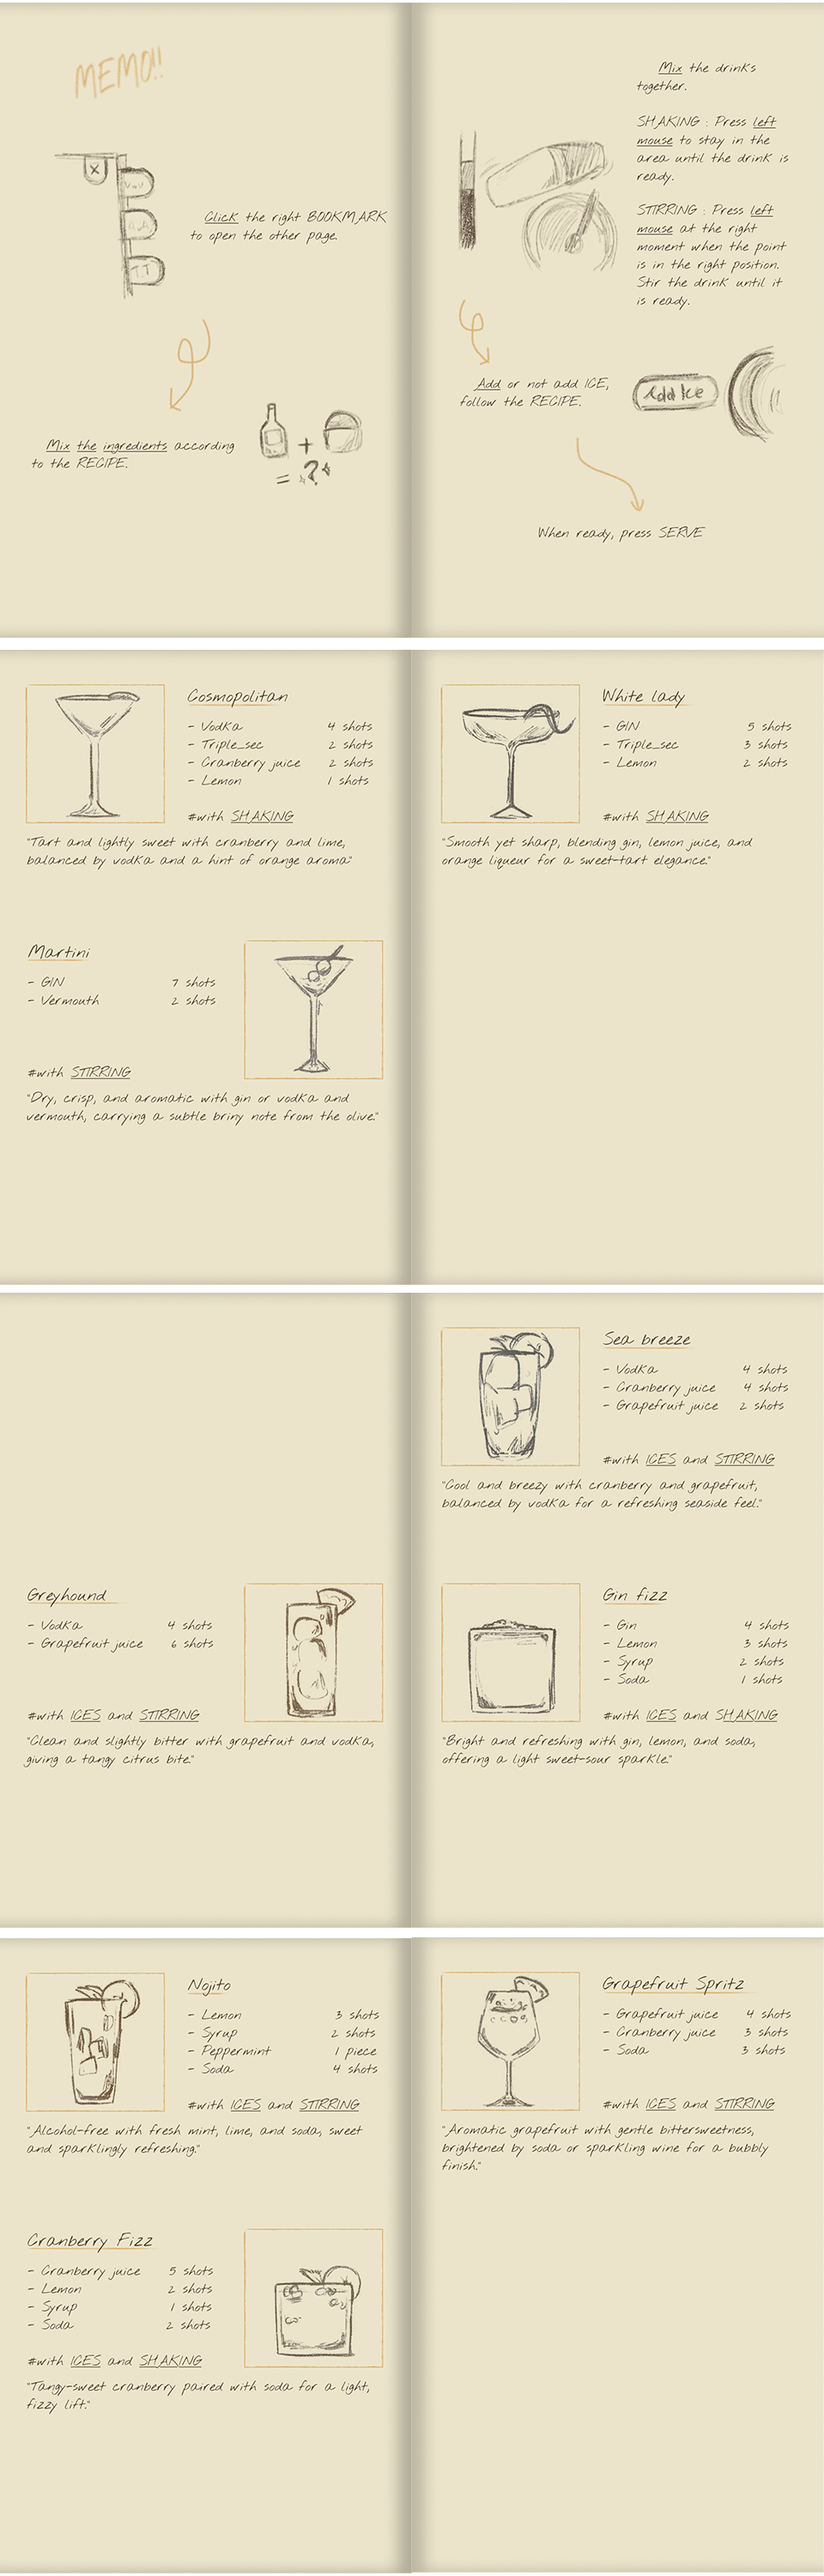
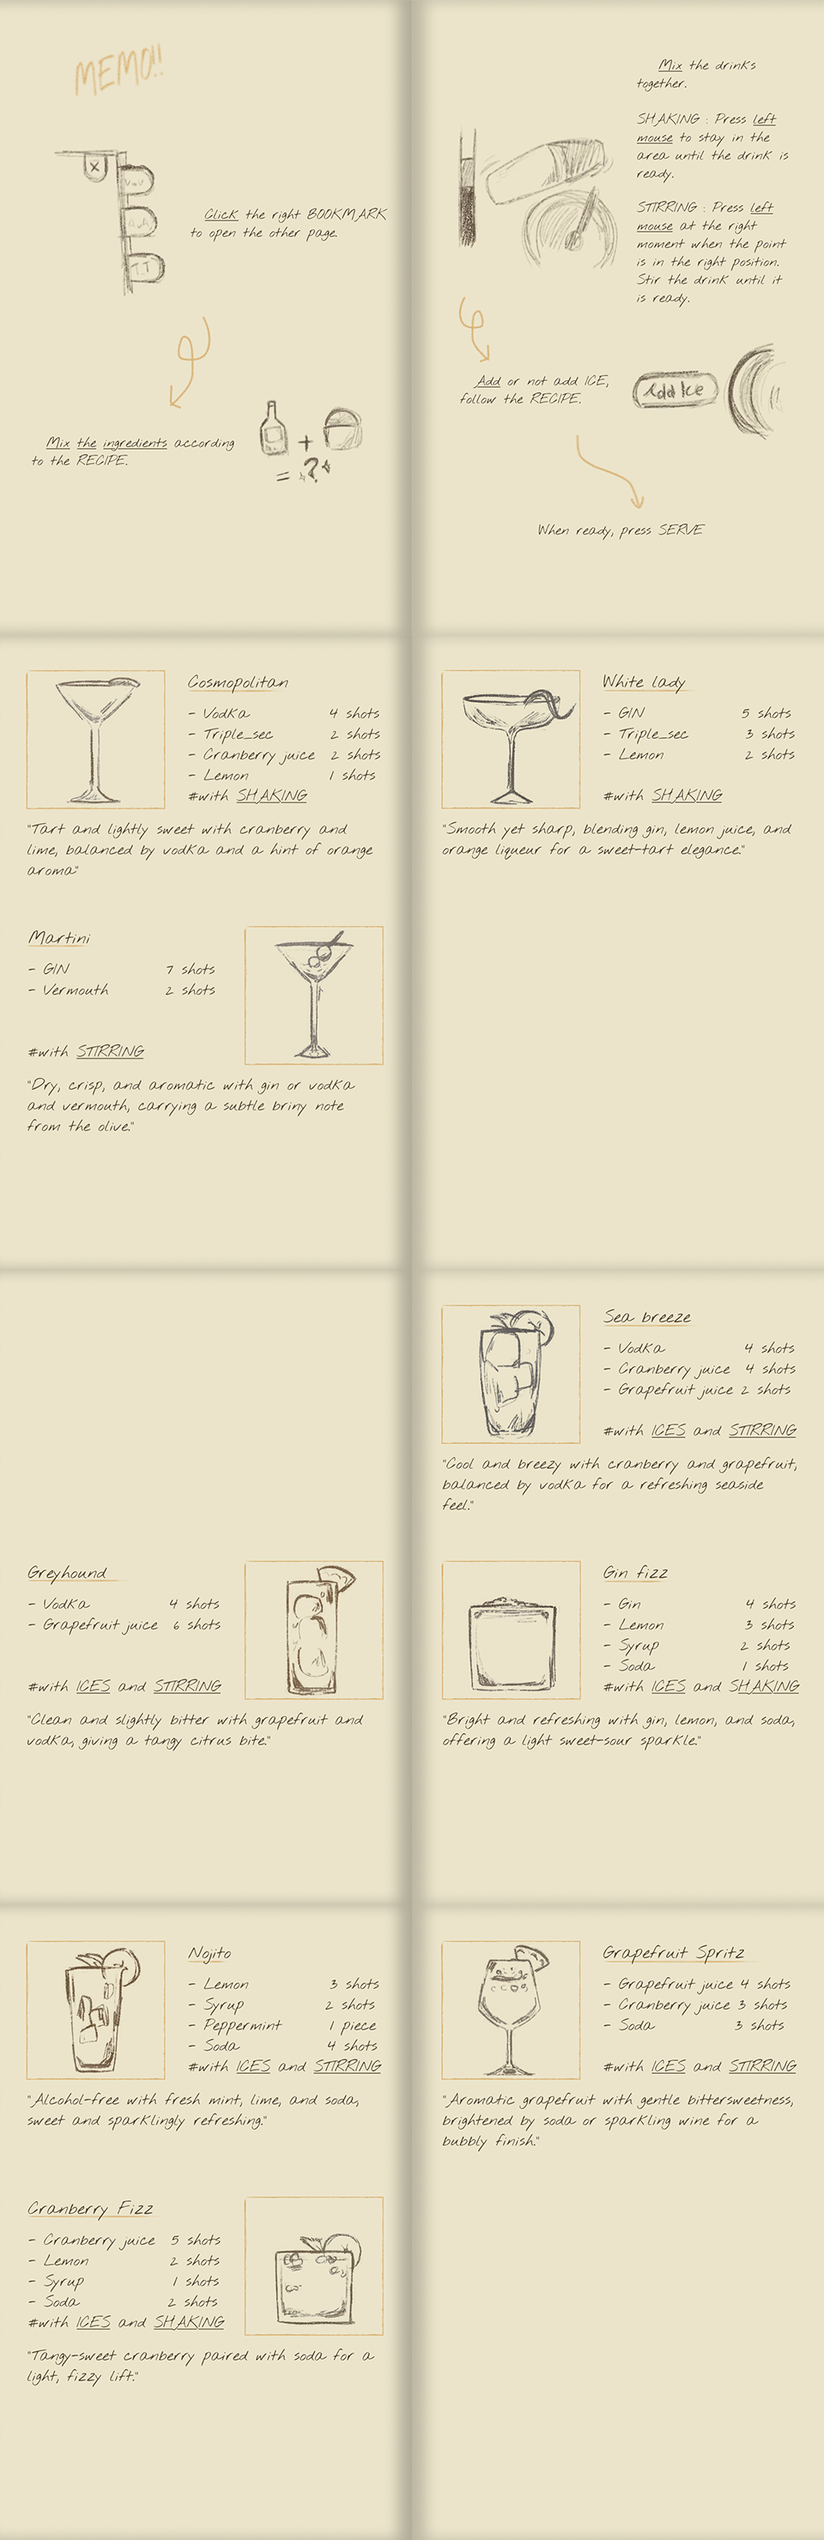
replace new mouse and UI Book Recipe
- replace new thing following the Title
- add QoL pause Game

diff --git a/CocktailProject/Scenes/GamePlay.cs b/CocktailProject/Scenes/GamePlay.cs
@@ -880,8 +880,8 @@ namespace CocktailProject.Scenes
 
             InitStiringMinigameUI();
 
-            Img_Mouse = new Image(Mouse_Atlas.Texture, new Vector2(100, 100), anchor: Anchor.BottomLeft);
-            Img_Mouse.Offset = new Vector2(-100, 0);
+            Img_Mouse = new Image(Mouse_Atlas.Texture, new Vector2(130, 130), anchor: Anchor.BottomLeft);
+            Img_Mouse.Offset = new Vector2(-140, -5);
             Img_Mouse.SourceRectangle = Mouse_Anim.GetRectangleCurrentFrame();
             Img_Mouse.Visible = false;
             #endregion
@@ -1178,6 +1178,7 @@ namespace CocktailProject.Scenes
         }
         public override void Draw(GameTime gameTime)
         {
+            base.Draw(gameTime);
             Core.GraphicsDevice.Clear(Color.CornflowerBlue);
 
             Core.SpriteBatch.Begin();
@@ -1189,62 +1190,13 @@ namespace CocktailProject.Scenes
             Core.SpriteBatch.End();
 
             UserInterface.Active.Draw(Core.SpriteBatch);
-            base.Draw(gameTime);
+            
 
         }
 
         public override void Update(GameTime gameTime)
         {
-            // Moving NPC updates
-            foreach (var movnpc in movingnpcs)
-                movnpc.Update(gameTime);
-
-            UpdateSong();
-
-            // Handle fade-in
-            if (shouldFadeIn)
-            {
-                if (FadeHelper.FadeEntity(P_Fade, gameTime, 255, 0, 3.0f, ref fadeTimer))
-                {
-                    EnableFadePanel(false);
-                    shouldFadeIn = false;
-                    OpenBookOnTutorial();
-                }
-                return;
-            }
-
-            UserInterface.Active.Update(gameTime);
-            if (!EndTutorial) return; 
-
-            if (shouldFadeOut) {
-
-                if (FadeHelper.FadeEntity(P_Fade, gameTime, 0, 255, 5f, ref fadeTimer))
-                {
-                    // go to thank scene
-                    shouldFadeOut = false;
-                    Core.ChangeScene(new Summary());
-                }
-                return;
-            }
-
-                        
-            UpdateUILogic(gameTime);
-            Utilities.ShakeHelper.Update(gameTime);
-
-            // Skip all updates if no customer interaction
-            if (currentCustomerState != Enum_CutomerState.WaitingForServe)
-            {
-                base.Update(gameTime);
-                UserInterface.Active.Update(gameTime);
-                return;
-            }
-
-            // Update animations and UI
-            Shaking_Anim.Update(gameTime);
-            Stirring_Anim.Update(gameTime);
-            Mouse_Anim.Update(gameTime);
-            EmoteIcon_Anim.Update(gameTime);
-            UpdateUILogic(gameTime);
+            base.Update(gameTime);
 
             float elapsed = (float)gameTime.ElapsedGameTime.TotalSeconds;
 
@@ -1298,7 +1250,8 @@ namespace CocktailProject.Scenes
                 }
 
                 StiringMinigame.Update(gameTime);
-                if (!StiringMinigame.GetIsHitCorrectValue()) { 
+                if (!StiringMinigame.GetIsHitCorrectValue())
+                {
                     ShakeHelper.ShakingEntity(PB_Stirring, 5f, true, 0.6f, speed: 100f);
                     PB_Stirring.FillColor = Color.Orange;
                     PB_Stirring.ProgressFill.FillColor = Color.Orange;
@@ -1317,13 +1270,69 @@ namespace CocktailProject.Scenes
 
                 if (StiringMinigame.IsComplated())
                 {
+                    // defualt offset and color
+                    PB_Stirring.FillColor = Color.White;
+                    PB_Stirring.Offset = new Vector2(0, 70);
+
                     StiringMinigame.Stop();
                     Stirring_Anim.Stop();
+                    
                     currentMinigame = Enum_MiniGameType.None;
                     stateBeforeServePanel = Enum_PanelState.Open;
                     cooldownTime_SFX_Stiring = 4f;
                 }
             }
+
+            // Moving NPC updates
+            foreach (var movnpc in movingnpcs)
+                movnpc.Update(gameTime);
+
+            UpdateSong();
+
+            // Handle fade-in
+            if (shouldFadeIn)
+            {
+                if (FadeHelper.FadeEntity(P_Fade, gameTime, 255, 0, 3.0f, ref fadeTimer))
+                {
+                    EnableFadePanel(false);
+                    shouldFadeIn = false;
+                    OpenBookOnTutorial();
+                }
+                return;
+            }
+
+            UserInterface.Active.Update(gameTime);
+            if (!EndTutorial) return; 
+
+            if (shouldFadeOut) {
+
+                if (FadeHelper.FadeEntity(P_Fade, gameTime, 0, 255, 5f, ref fadeTimer))
+                {
+                    // go to thank scene
+                    shouldFadeOut = false;
+                    Core.ChangeScene(new Summary());
+                }
+                return;
+            }
+
+                        
+            UpdateUILogic(gameTime);
+            Utilities.ShakeHelper.Update(gameTime);
+
+            // Skip all updates if no customer interaction
+            if (currentCustomerState != Enum_CutomerState.WaitingForServe)
+            {
+                base.Update(gameTime);
+                UserInterface.Active.Update(gameTime);
+                return;
+            }
+
+            // Update animations and UI
+            Shaking_Anim.Update(gameTime);
+            Stirring_Anim.Update(gameTime);
+            Mouse_Anim.Update(gameTime);
+            EmoteIcon_Anim.Update(gameTime);
+            UpdateUILogic(gameTime);
 
             // Conversation and text
             UpdateConversation();
@@ -1335,8 +1344,7 @@ namespace CocktailProject.Scenes
             P_Debug_GlobalVariable.Text = GlobalVariable.DebugPrintString();
 #endif
 
-            base.Update(gameTime);
-            UserInterface.Active.Update(gameTime);
+            
         }
         protected void UpdateUILogic(GameTime gameTime)
         {
@@ -2098,14 +2106,15 @@ namespace CocktailProject.Scenes
 
             Img_BookRecipes = new Image(T_BookRecipes, new Vector2(1100, 750), ImageDrawMode.Stretch, Anchor.TopLeft);
             Img_BookRecipes.Offset = new Vector2(66, 63);
+            Img_BookRecipes.Padding = Vector2.Zero;
 
-            Img_LeftPage = new Image(Recipes_Atlas.Texture, new Vector2(480, 700), ImageDrawMode.Stretch, Anchor.TopLeft);
+            Img_LeftPage = new Image(Recipes_Atlas.Texture, new Vector2(480, 740), ImageDrawMode.Stretch, Anchor.TopLeft);
             Img_LeftPage.SourceRectangle = Recipes_Atlas.GetRegion("Recipe_01_L").SourceRectangle;
-            Img_LeftPage.Offset = new Vector2(25, 0);
+            Img_LeftPage.Offset = new Vector2(50, 6);
 
-            Img_RightPage = new Image(Recipes_Atlas.Texture, new Vector2(480, 700), ImageDrawMode.Stretch, Anchor.TopLeft);
+            Img_RightPage = new Image(Recipes_Atlas.Texture, new Vector2(480, 740), ImageDrawMode.Stretch, Anchor.TopLeft);
             Img_RightPage.SourceRectangle = Recipes_Atlas.GetRegion("Recipe_01_R").SourceRectangle;
-            Img_RightPage.Offset = new Vector2(505, 0);
+            Img_RightPage.Offset = new Vector2(530, 6);
 
 
             BTN_PreviousPage = new Button("", ButtonSkin.Default, Anchor.BottomLeft, new Vector2(166/2, 98/2));
@@ -2125,7 +2134,7 @@ namespace CocktailProject.Scenes
                 BTN_PreviousPage.Offset += new Vector2(0, +5);
                 BTN_PreviousPage.FillColor = Color.White;
             };
-            BTN_PreviousPage.Offset = new Vector2(-20, 0);
+            BTN_PreviousPage.Offset = new Vector2(0, 30);
             Texture2D T_BTN_PreviousPage = Content.Load<Texture2D>("images/UI/RecipeBook/Recipe_Button_Left");
             Texture2D T_BTN_PreviousPage_hover = Content.Load<Texture2D>("images/UI/RecipeBook/Recipe_Button_Left_Hover");
             BTN_PreviousPage.SetCustomSkin(T_BTN_PreviousPage, T_BTN_PreviousPage_hover, T_BTN_PreviousPage);
@@ -2148,7 +2157,7 @@ namespace CocktailProject.Scenes
                 BTN_NextPage.Offset += new Vector2(0, +5);
                 BTN_NextPage.FillColor = Color.White;
             };
-            BTN_NextPage.Offset = new Vector2(20, 0);
+            BTN_NextPage.Offset = new Vector2(45, 30);
             Texture2D T_BTN_NextPage = Content.Load<Texture2D>("images/UI/RecipeBook/Recipe_Button_Right");
             Texture2D T_BTN_NextPage_hover = Content.Load<Texture2D>("images/UI/RecipeBook/Recipe_Button_Right_Hover");
             BTN_NextPage.SetCustomSkin(T_BTN_NextPage, T_BTN_NextPage_hover, T_BTN_NextPage);
@@ -2171,7 +2180,8 @@ namespace CocktailProject.Scenes
                 BTN_CloseBookRecipes.Offset += new Vector2(0, -5);
                 BTN_CloseBookRecipes.FillColor = Color.White;
             };
-            BTN_CloseBookRecipes.Offset = new Vector2(80, -40);
+            BTN_CloseBookRecipes.Offset = new Vector2(100, 5);
+
             Texture2D T_BTN_CloseBookRecipes = Content.Load<Texture2D>("images/UI/RecipeBook/Recipe_Button_Close");
             Texture2D T_BTN_CloseBookRecipes_hover = Content.Load<Texture2D>("images/UI/RecipeBook/Recipe_Button_Close_Hover");
             BTN_CloseBookRecipes.SetCustomSkin(T_BTN_CloseBookRecipes, T_BTN_CloseBookRecipes, T_BTN_CloseBookRecipes);
@@ -2179,6 +2189,7 @@ namespace CocktailProject.Scenes
 
             Img_BookRecipes.AddChild(Img_LeftPage);
             Img_BookRecipes.AddChild(Img_RightPage);
+
             Img_BookRecipes.AddChild(BTN_PreviousPage);
             Img_BookRecipes.AddChild(BTN_NextPage);
             Img_BookRecipes.AddChild(BTN_CloseBookRecipes);

diff --git a/MonoGameLibrary/Core.cs b/MonoGameLibrary/Core.cs
@@ -80,10 +80,15 @@ public class Core : Game
         // Create a new graphics device manager.
         Graphics = new GraphicsDeviceManager(this);
 
+
+
         // Set the graphics defaults
         Graphics.PreferredBackBufferWidth = width;
         Graphics.PreferredBackBufferHeight = height;
-        Graphics.IsFullScreen = fullScreen;
+
+        Graphics.HardwareModeSwitch = false; // use borderless mode
+        Graphics.IsFullScreen = fullScreen;  // set true to cover screen
+        Graphics.ApplyChanges();
 
         // Apply the graphic presentation changes.
         Graphics.ApplyChanges();
@@ -133,6 +138,9 @@ public class Core : Game
 
     protected override void Update(GameTime gameTime)
     {
+        if (!IsActive)
+            return;
+
         // Update the input manager.
         Input.Update(gameTime);
 
@@ -162,6 +170,9 @@ public class Core : Game
 
     protected override void Draw(GameTime gameTime)
     {
+        if (!IsActive)
+            return;
+
         // If there is an active scene, draw it.
         if (s_activeScene != null)
         {

diff --git a/CocktailProject/Game2.cs b/CocktailProject/Game2.cs
@@ -23,19 +23,19 @@ namespace CocktailProject
     {
         public Game2() : base("CocktialProject", 1920, 1080, true)
         {
-
         }
 
         protected override void Initialize()
         {
             base.Initialize();
 
-            ChangeScene(new Scenes.GameIntro());
+            //ChangeScene(new Scenes.GameIntro());
+            ChangeScene(new Scenes.GamePlay());
         }
 
         protected override void LoadContent() {
-            base.LoadContent();
 
+            base.LoadContent();
 
         }
 

diff --git a/MonoGameLibrary/Scencs/Scene.cs b/MonoGameLibrary/Scencs/Scene.cs
@@ -64,7 +64,8 @@ public abstract class Scene : IDisposable
     /// Updates this scene.
     /// </summary>
     /// <param name="gameTime">A snapshot of the timing values for the current frame.</param>
-    public virtual void Update(GameTime gameTime) { }
+    public virtual void Update(GameTime gameTime) {
+    }
 
     /// <summary>
     /// Draws this scene.

diff --git a/CocktailProject/Game1.cs b/CocktailProject/Game1.cs
@@ -124,7 +124,7 @@ public class Game1 : Core
 
     public Game1() : base("CocktialProject", 1920, 1080, false)
     {
-
+        ;
     }
 
     protected override void Initialize()
